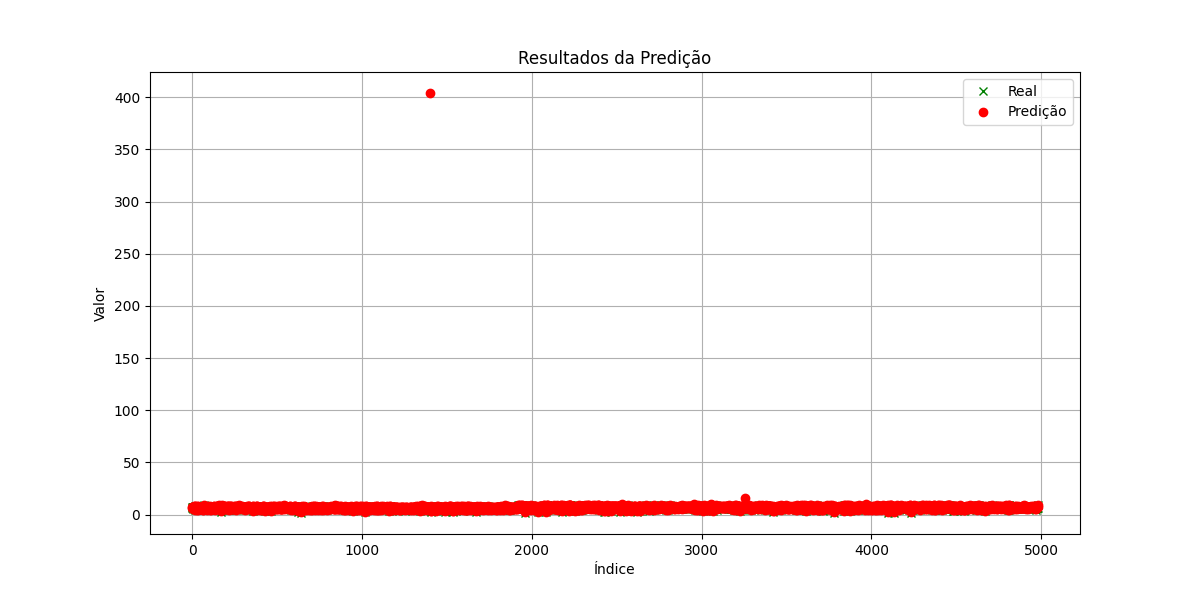
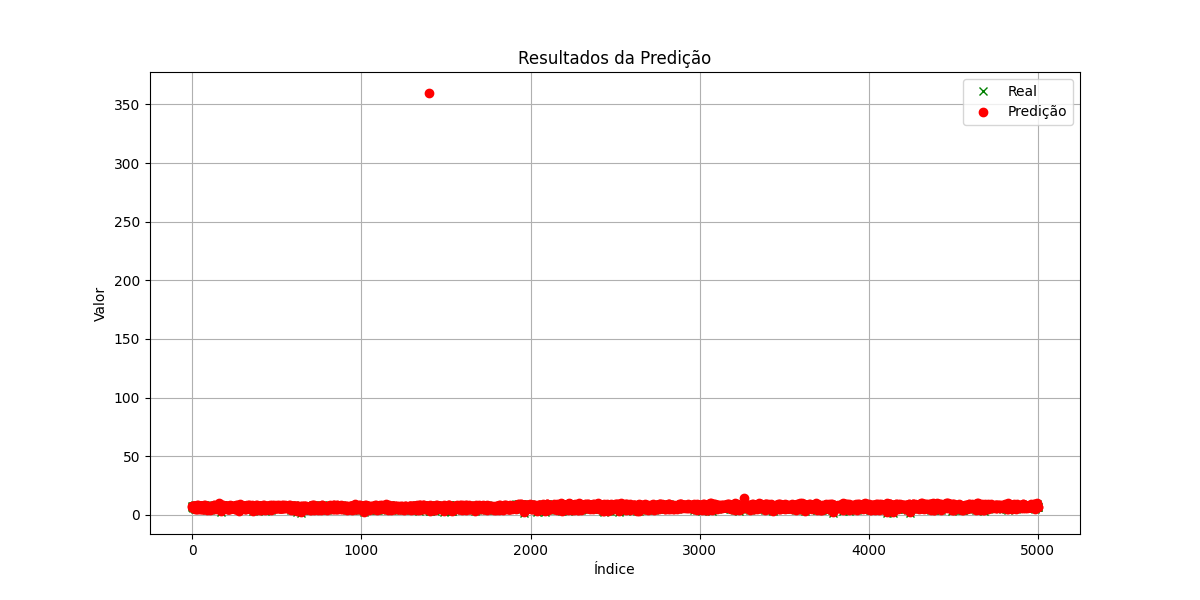
adicionado codigo com resultados + ajustes no treinamento e mapeamento de colunas, uma vez que foi ajustado os numeros com o np.inf, pois estava crashando e dando exceptions

diff --git a/main.py b/main.py
@@ -1,10 +1,10 @@
-# Importação das funções de preparação, treinamento e visualização de módulos internos.
 from src.data_preparation import load_data, clean_data, fill_missing_values
 from src.model_training import scale_data, train_regressor
 from src.visualization import plot_predictions, plot_distributions
 from src.utils.filesystem import create_directory
+import numpy as np
 
-DATA_FILE = 'data/data.csv'
+DATA_FILE = 'data/data_2.csv'
 RESULT_DIR = 'results'
 
 
@@ -22,19 +22,29 @@ def main():
     data['imdbId'] = data['imdbId'].fillna("tt0000000")
     data['imdbAverageRating'] = data['imdbAverageRating'].fillna(7.0)
     data['imdbNumVotes'] = data['imdbNumVotes'].fillna(1)
+    data['NumVotesPerYear'] = data['imdbNumVotes'] / (2024 - data['releaseYear'])
+    data['GenresCount'] = data['genres'].apply(lambda x: len(x.split(',')) if isinstance(x, str) else 0)
+    data['PopularityScore'] = data['imdbAverageRating'] * 0.7 + \
+                              (data['imdbNumVotes'] / data['imdbNumVotes'].max()) * 0.3
+
 
     if data.isna().sum().any():
-        print("Valores NaN restantes por coluna após imputação:", data.isna().sum())
         data = data.dropna()
 
     if 'releaseYear' in data.columns:
         train_data = data[data['releaseYear'] < 2009]
         test_data = data[data['releaseYear'] >= 2009]
     else:
-        print("A coluna 'releaseYear' não está presente no dataset.")
         return
 
     numeric_cols = train_data.select_dtypes(include=['float64', 'int64']).columns
+
+    train_data.loc[:, numeric_cols] = train_data.loc[:, numeric_cols].replace([np.inf, -np.inf], np.nan)
+    test_data.loc[:, numeric_cols] = test_data.loc[:, numeric_cols].replace([np.inf, -np.inf], np.nan)
+
+    train_data.loc[:, numeric_cols] = train_data.loc[:, numeric_cols].fillna(train_data[numeric_cols].mean())
+    test_data.loc[:, numeric_cols] = test_data.loc[:, numeric_cols].fillna(test_data[numeric_cols].mean())
+
     X_train, X_test = scale_data(train_data[numeric_cols], test_data[numeric_cols])
 
     y_train = train_data['imdbAverageRating'].values

diff --git a/src/visualization.py b/src/visualization.py
@@ -27,17 +27,19 @@ def plot_distributions(data, save_path):
     plt.figure(figsize=(8, 12))
     background_color = '#A0D6B4'
 
-    columns_to_plot = ['imdbAverageRating', 'imdbNumVotes', 'releaseYear']
+    columns_to_plot = ['imdbAverageRating', 'imdbNumVotes', 'releaseYear', 
+                       'NumVotesPerYear', 'GenresCount', 'PopularityScore']
 
     for i, column in enumerate(columns_to_plot):
         if column in data.columns:
-            ax = plt.subplot(len(columns_to_plot), 1, i + 1)
-            ax.set_facecolor(background_color)
+            if data[column].nunique() > 1:
+                ax = plt.subplot(len(columns_to_plot), 1, i + 1)
+                ax.set_facecolor(background_color)
 
-            sns.kdeplot(data[column], fill=True, color='blue', ax=ax, lw=1.5)
-            ax.grid(alpha=0.4, color='white')
-            ax.set_title(column)
-            ax.tick_params(left=False, bottom=False)
+                sns.kdeplot(data[column], fill=True, color='blue', ax=ax, lw=1.5)
+                ax.grid(alpha=0.4, color='white')
+                ax.set_title(column)
+                ax.tick_params(left=False, bottom=False)
 
     plt.tight_layout()
     plt.savefig(os.path.join(save_path, 'distribuicoes_verde_suave.png'))
